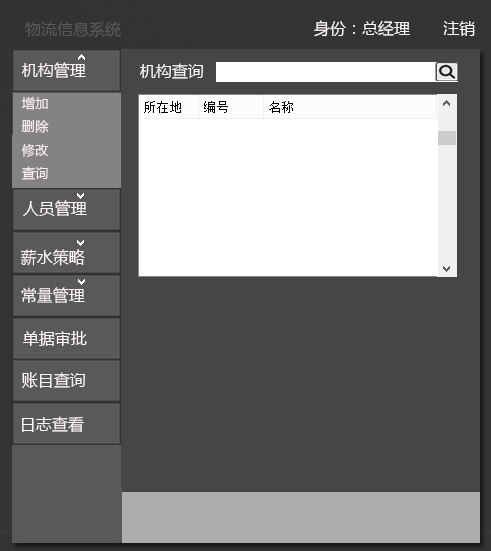
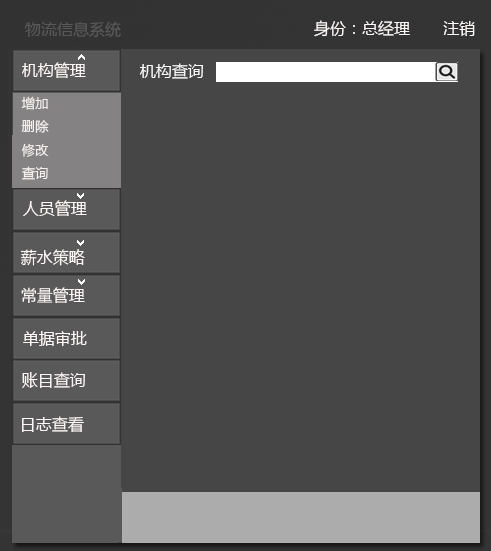
manager table

Changed region(s): [[0.2749, 0.1543, 0.947, 0.5245]]

diff --git a/ExpressSystem/client/src/main/java/nju/sec/yz/ExpressSystem/presentation/managerui/ManagerAgencyDelete.java b/ExpressSystem/client/src/main/java/nju/sec/yz/ExpressSystem/presentation/managerui/ManagerAgencyDelete.java
@@ -7,6 +7,7 @@ import java.awt.Image;
 import java.awt.event.MouseAdapter;
 import java.awt.event.MouseEvent;
 import java.util.ArrayList;
+import java.util.Vector;
 
 import javax.swing.DefaultListSelectionModel;
 import javax.swing.ImageIcon;
@@ -22,6 +23,7 @@ import javax.swing.table.TableModel;
 
 import nju.sec.yz.ExpressSystem.bl.managerbl.ManagerController;
 import nju.sec.yz.ExpressSystem.blservice.managerBlService.AgencyBlService;
+import nju.sec.yz.ExpressSystem.presentation.componentui.newTable;
 import nju.sec.yz.ExpressSystem.presentation.controlerui.ClientControler;
 import nju.sec.yz.ExpressSystem.vo.AgencyListVO;
 import nju.sec.yz.ExpressSystem.vo.PositionVO;
@@ -33,9 +35,9 @@ public class ManagerAgencyDelete extends JPanel{
 	private ManagerButtonComponent mbc;
 	
 	private JTextField searchnum;
-	private JTable table;
-	private TableModel model;
-	private JScrollPane jsc;
+	private newTable table;
+	private Vector<Vector<String>> data=new Vector<Vector<String>>();
+	private Vector<String> name=new Vector<String>();
 	
 	private JLabel warning=new JLabel();
 	
@@ -59,15 +61,15 @@ public class ManagerAgencyDelete extends JPanel{
 		setSize(490, 550);
 		setVisible(true);
 		
-		table=new JTable(null);
-		table.setSelectionMode(ListSelectionModel.MULTIPLE_INTERVAL_SELECTION);
-		table.setColumnSelectionAllowed(false);
-		table.setRowSelectionAllowed(true);
-
-		jsc=new JScrollPane(table);
-		jsc.setVisible(true);
-	    jsc.setBounds(137,94,318,181);
-	    add(jsc);
+		name.add("所在地");
+		name.add("编号");
+		name.add("名称");
+		
+		table=new newTable(data,name,this,false);
+		table.setSelectionMode();
+		table.setTableSelect();
+		table.setBounds(137,94,318,181);
+		table.join();
 
 		original();
 	    
@@ -91,51 +93,28 @@ public class ManagerAgencyDelete extends JPanel{
 		confirm.setBounds(385, 286, 72, 20);
 		add(confirm);
 	    
+		
+		warning.setBounds(198, 490, 463 - 198, 30);
+		warning.setFont(new Font("Dialog", 1, 15));
+		warning.setForeground(Color.red);
+		warning.setVisible(false);
+		add(warning);
 	    
 		search.addMouseListener(new MouseAdapter() {
 			public void mouseClicked(MouseEvent e) {
 				// 判断必填项是否填写完成
 				if (searchnum.getText().equals("")) {
 					warning.setText("信息未填写");
-					warning.setBounds(198, 490, 463 - 198, 30);
-					warning.setFont(new Font("Dialog", 1, 15));
-					warning.setForeground(Color.red);
 					warning.setVisible(true);
-					add(warning);
 					repaint();
-				}else{
-					AgencyListVO agency=manager.observeTransitByName(searchnum.getText());
-					transits=(ArrayList<TransitVO>) agency.transits;
-					positions=(ArrayList<PositionVO>) agency.positions;
-					System.out.println(positions.size());
-					
-					
-					int total=0;
-					total+=transits.size();
-					for(int i=0;i<transits.size();i++){
-						total+=transits.get(i).getPositions().size();
-					}
-					String[][] TableData = new String[total][3];
-					String[] columnTitle={"所在地","编号","名称"};
-					for(int i=0;i<transits.size();i++){
-						TransitVO temp=transits.get(i);
-						TableData[i][0]=temp.getLocation();
-						TableData[i][1]=temp.getId();
-						TableData[i][2]=temp.getName();
-						}
-					for(int i=0;i<positions.size();i++){
-						PositionVO temp=positions.get(i);
-						TableData[i+transits.size()][0]=temp.getLocation();
-						TableData[i+transits.size()][1]=temp.getId();
-						TableData[i+transits.size()][2]=temp.getName();
-					}
-					model=new DefaultTableModel(TableData,columnTitle);
-					table.setModel(model);
-					table.repaint();
+				} else {
+					AgencyListVO agency = manager
+							.observeTransitByName(searchnum.getText());
+					changeData(agency);
+					table.resetData();
 				}
-		
-		}
-	});
+			}
+		});
 		
 		
 		back.addMouseListener(new MouseAdapter() {
@@ -150,43 +129,44 @@ public class ManagerAgencyDelete extends JPanel{
 				int[] deletelines=table.getSelectedRows();
 				for(int i=0;i<deletelines.length;i++){
 					if(deletelines[i]<transits.size()){
-						manager.deleteTransit((String)table.getValueAt(deletelines[i], 1));
+						manager.deleteTransit(table.getValueAt(deletelines[i], 1,false));
 					}else{
 						String transitBelong=positions.get(deletelines[i]-transits.size()).getTransitId();
-						manager.deletePosition(transitBelong, (String)table.getValueAt(deletelines[i], 1));
+						manager.deletePosition(transitBelong,table.getValueAt(deletelines[i], 1,false));
 					}
+					original();
 				}
 			}
 		});	
 }
-	
+	private	void changeData(AgencyListVO agency)
+	{
+		transits=(ArrayList<TransitVO>) agency.transits;
+		positions=(ArrayList<PositionVO>) agency.positions;
+		int total=0;
+		total+=transits.size();
+		for(int i=0;i<transits.size();i++){
+			total+=transits.get(i).getPositions().size();
+		}
+		for(int i=0;i<transits.size();i++){
+			Vector<String> vector=new Vector<String>();
+			TransitVO temp=transits.get(i);
+			vector.add(temp.getLocation());
+			vector.add(temp.getId());
+			vector.add(temp.getName());
+			for(int j=0;j<positions.size();j++){
+				PositionVO temp2=positions.get(j);
+				vector.add(temp2.getLocation());
+				vector.add(temp2.getId());
+				vector.add(temp2.getName());
+			}
+			data.add(vector);
+		}
+	}
 	
 	private void original(){
-		transits=manager.observeAllTransit();
-		positions=new ArrayList<PositionVO>();
-		
-		int total=0;
-		total=total+transits.size();
-		for(int i=0;i<transits.size();i++){
-			total=total+transits.get(i).getPositions().size();
-		}
-		String[][] TableData = new String[total][3];
-		String[] columnTitle={"所在地","编号","名称"};
-		for(int i=0;i<transits.size();i++){
-			TransitVO temp=transits.get(i);
-			TableData[i][0]=temp.getLocation();
-			TableData[i][1]=temp.getId();
-			TableData[i][2]=temp.getName();
-			positions.addAll(temp.getPositions());
-			}
-		for(int i=0;i<positions.size();i++){
-			PositionVO temp=positions.get(i);
-			TableData[i+transits.size()][0]=temp.getLocation();
-			TableData[i+transits.size()][1]=temp.getId();
-			TableData[i+transits.size()][2]=temp.getName();
-		}
-		model=new DefaultTableModel(TableData,columnTitle);
-		table.setModel(model);
+		changeData(new AgencyListVO(manager.observeAllTransit(),new ArrayList<PositionVO>()));
+		table.resetData();
 	}
 		
 	@Override

diff --git a/ExpressSystem/client/src/main/java/nju/sec/yz/ExpressSystem/presentation/componentui/newTable.java b/ExpressSystem/client/src/main/java/nju/sec/yz/ExpressSystem/presentation/componentui/newTable.java
@@ -20,6 +20,7 @@ import javax.swing.JLabel;
 import javax.swing.JPanel;
 import javax.swing.JScrollPane;
 import javax.swing.JTable;
+import javax.swing.ListSelectionModel;
 import javax.swing.event.TableModelEvent;
 import javax.swing.event.TableModelListener;
 import javax.swing.table.DefaultTableCellRenderer;
@@ -84,6 +85,13 @@ public class newTable{
 	public void setJComboBox(JComboBox choose,int column)
 	{
 		table.getColumnModel().getColumn(column).setCellEditor(new DefaultCellEditor(choose));
+	}
+	/**
+	 * 设置多选
+	 */
+	public void setSelectionMode()
+	{
+		table.setSelectionMode(ListSelectionModel.MULTIPLE_INTERVAL_SELECTION);
 	}
 	/**
 	 * 得到model
@@ -159,6 +167,22 @@ public class newTable{
 		{
 			return (String) model.getValueAt(r, c);
 		}
+	}
+	/**
+	 * 获得表格的选中行
+	 * @return int[] 选中编号的数组
+	 */
+	public int[] getSelectedRows()
+	{
+		return table.getSelectedRows();
+	}
+	/**
+	 * 设置表格是否可选
+	 */
+	public void setTableSelect()
+	{
+		table.setColumnSelectionAllowed(false);
+		table.setRowSelectionAllowed(true);
 	}
 	/**
 	 * 获得表格的行数

diff --git a/ExpressSystem/client/src/main/java/nju/sec/yz/ExpressSystem/vo/AgencyListVO.java b/ExpressSystem/client/src/main/java/nju/sec/yz/ExpressSystem/vo/AgencyListVO.java
@@ -19,5 +19,8 @@ public class AgencyListVO {
 		transits=new ArrayList<>();
 		positions=new ArrayList<>();
 	}
-	
+	public AgencyListVO(List<TransitVO> t,List<PositionVO> p) {
+		transits=t;
+		positions=p;
+	}
 }
